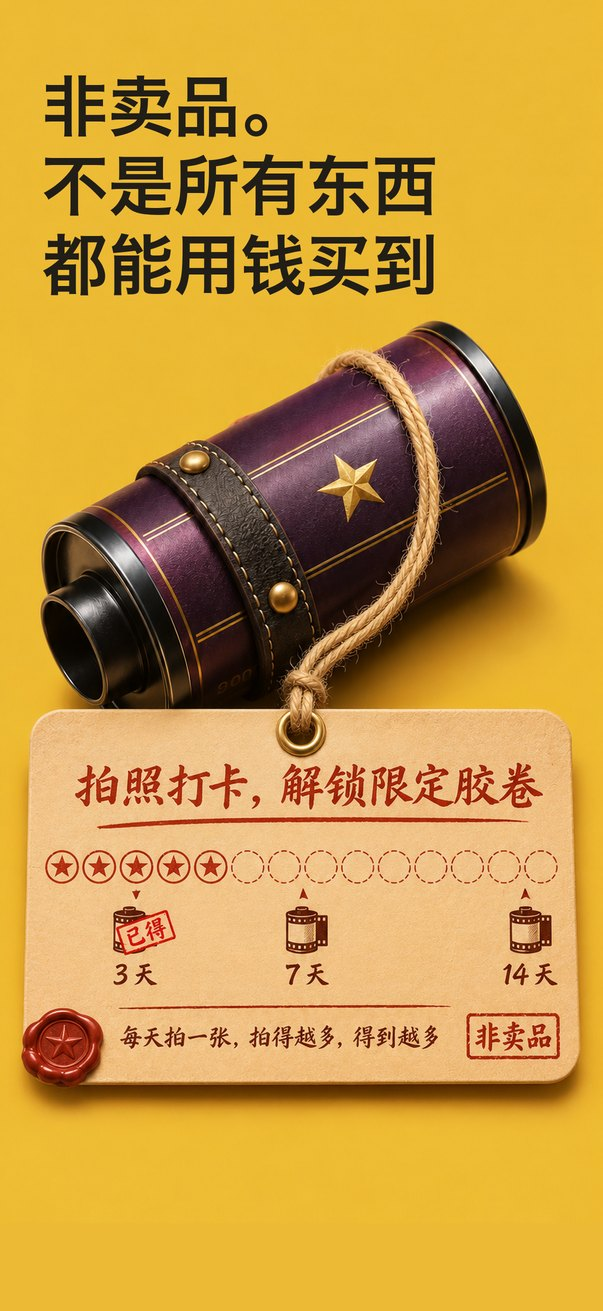
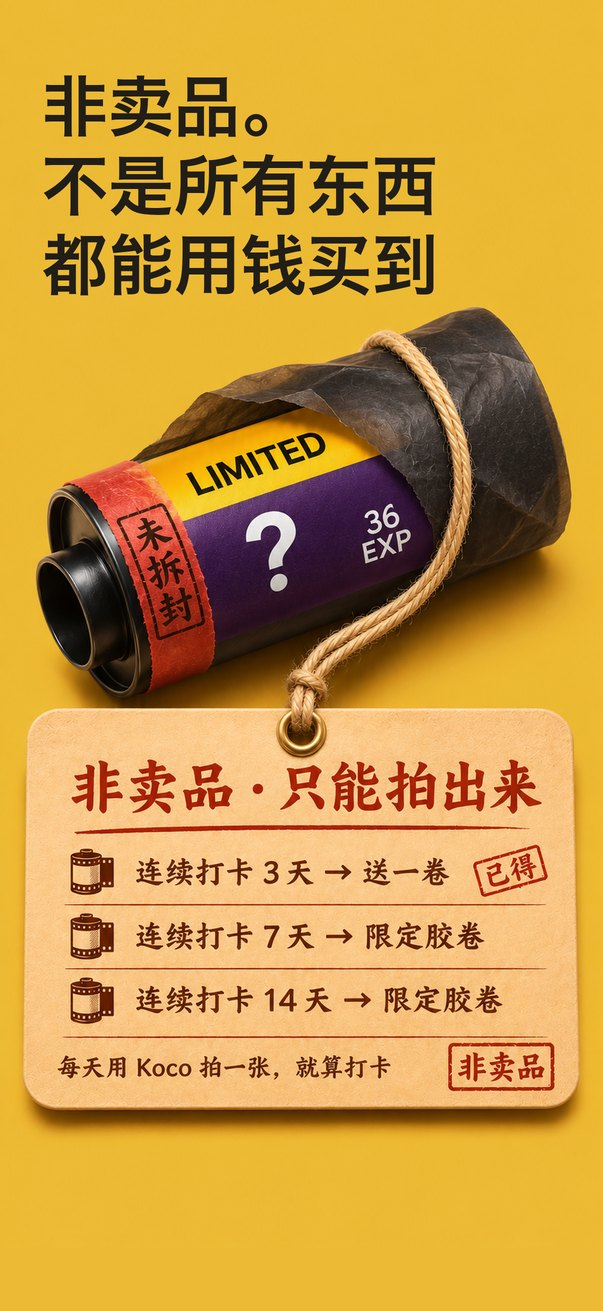
Community concept v3 (photos only on the album, sleeve on binder rings, lean left side), navigation styles board, not-for-sale page redrawn in the app's two-tone roll style with the earn rules on the tag

Changed region(s): [[0.0299, 0.2136, 0.9851, 0.8848]]

diff --git a/design/appstore/duo/index.html b/design/appstore/duo/index.html
@@ -24,13 +24,19 @@ body.en .zh,body:not(.en) .en{display:none}
 .tbl{overflow-x:auto}table{border-collapse:collapse;min-width:520px;font-size:14px}td,th{border-bottom:1px solid var(--line);padding:8px;text-align:left;vertical-align:top}
 </style>
 <main>
-<h1>社区页 · 第二版</h1>
+<h1>社区页 · 第三版</h1>
+<p class="sub">右边只放照片，横幅去掉了；插页左边那列孔穿在一组钉在左页绒布上的黄铜活页环上（像活页相册），两个夹子去掉了。左边去掉“Koco 社区”纸片，从上到下：推荐 / 关注 / 最新、搜索条、今日题目（小题签当推荐位）、按胶卷看、我的（头像、数字、打卡章）、最下面导航。</p>
+<img src="community_v3.jpg" alt="社区页第三版" style="width:100%;border-radius:8px">
+<h2>左下角导航 · 几种做法</h2>
+<p class="sub">1 琴键：老录音机那种一排四个金属按键，选中的按下去、红键帽，横向最省地方。2 拨盘：黄铜模式拨盘，红指针指着选中项，最像相机，但占一块方形地方。3 皮带铆钉：竖排四个铜孔，选中的扣红按扣，竖着占高度。4 胶卷盒盖：四个透明小盒盖，选中的亮红。左下那条是原来的黄铜拨档。</p>
+<img src="nav_board.jpg" alt="导航做法对比" style="width:100%;border-radius:8px">
+<h2>社区页 · 第二版</h2>
 <p class="sub">照片改成三列：一张比单页更宽的透明插页摊开在包上，从右页铺过书脊、压住左页右边三分之一，左边缘用两个黄铜夹子夹在绒布上——这样“对半开的皮夹”里出现三列就说得通。今日题目不再是导航，改成插页最上面横跨三列的推荐位。左边导航按照片社区的习惯做轻：推荐 / 关注 / 最新、搜索条、按胶卷看、我的（头像、作品 / 关注 / 获赞、打卡章），最下面是黄铜拨档。</p>
 <img src="community_v2.jpg" alt="社区页第二版" style="width:100%;border-radius:8px">
 <h2>整套 8 页 · 按你的意见改</h2>
 <p class="sub">4 非卖品：换成神秘盒子——黑盒子带相机同款黄红条，盒盖掀开，绒布里躺着一卷紫金色的胶卷，火漆封条撕开一半（GPT 画）。6 所见即所得：相机和成片同一个角度，成片压在相机下面像刚吐出来，不再一正一歪，也不是死板地上下摆。7 先试试：回到 App 里真正的滑动对比界面，截成一个满页的竖窗，白线和拖动圆钮在中间；换了一张前后差别大的照片（原图是手机那种平平的发青，Natura 1600 后浓郁暖调）。8 一键直达：去掉桌面图标，只留 Dock（相册、设置、信息、音乐，没有相机）。点按钮切中文 / English。</p>
 <div class="seg" role="group" aria-label="语言"><button id="bz" aria-pressed="true">中文</button><button id="be" aria-pressed="false">English</button></div>
-<div class="row" style="grid-template-columns:repeat(auto-fill,minmax(130px,1fr))"><figure><img class="zh" src="s9_1_zh.jpg" alt="不是 iPhone，是胶片相机"><img class="en" src="s9_1_en.jpg" alt="不是 iPhone，是胶片相机"><figcaption>1 · 不是 iPhone，是胶片相机</figcaption></figure><figure><img class="zh" src="s9_2_zh.jpg" alt="换一卷，换一种生活"><img class="en" src="s9_2_en.jpg" alt="换一卷，换一种生活"><figcaption>2 · 换一卷，换一种生活</figcaption></figure><figure><div style="aspect-ratio:603/1311;border:2px dashed #b9a;border-radius:6px;display:grid;place-items:center;text-align:center;padding:8px;font-size:13px">社区页<br>等你选定导航后做</div><figcaption>3 · 社区</figcaption></figure><figure><img class="zh" src="s9_4_zh.jpg" alt="非卖品（神秘盒子）"><img class="en" src="s9_4_en.jpg" alt="非卖品（神秘盒子）"><figcaption>4 · 非卖品（加打卡卡片）</figcaption></figure><figure><img class="zh" src="s9_5_zh.jpg" alt="军火库"><img class="en" src="s9_5_en.jpg" alt="军火库"><figcaption>5 · 军火库</figcaption></figure><figure><img class="zh" src="s9_6_zh.jpg" alt="所见即所得（新）"><img class="en" src="s9_6_en.jpg" alt="所见即所得（新）"><figcaption>6 · 所见即所得（新）</figcaption></figure><figure><img class="zh" src="s9_7_zh.jpg" alt="买之前，先试试（新）"><img class="en" src="s9_7_en.jpg" alt="买之前，先试试（新）"><figcaption>7 · 买之前，先试试（红车被白线切开）</figcaption></figure><figure><img class="zh" src="s9_8_zh.jpg" alt="两种方式，一键直达（新）"><img class="en" src="s9_8_en.jpg" alt="两种方式，一键直达（新）"><figcaption>8 · 两种方式，一键直达（去掉红箭头）</figcaption></figure></div>
+<div class="row" style="grid-template-columns:repeat(auto-fill,minmax(130px,1fr))"><figure><img class="zh" src="s9_1_zh.jpg" alt="不是 iPhone，是胶片相机"><img class="en" src="s9_1_en.jpg" alt="不是 iPhone，是胶片相机"><figcaption>1 · 不是 iPhone，是胶片相机</figcaption></figure><figure><img class="zh" src="s9_2_zh.jpg" alt="换一卷，换一种生活"><img class="en" src="s9_2_en.jpg" alt="换一卷，换一种生活"><figcaption>2 · 换一卷，换一种生活</figcaption></figure><figure><div style="aspect-ratio:603/1311;border:2px dashed #b9a;border-radius:6px;display:grid;place-items:center;text-align:center;padding:8px;font-size:13px">社区页<br>等你选定导航后做</div><figcaption>3 · 社区</figcaption></figure><figure><img class="zh" src="s9_4_zh.jpg" alt="非卖品（神秘盒子）"><img class="en" src="s9_4_en.jpg" alt="非卖品（神秘盒子）"><figcaption>4 · 非卖品（同款拼色卷，未拆封）</figcaption></figure><figure><img class="zh" src="s9_5_zh.jpg" alt="军火库"><img class="en" src="s9_5_en.jpg" alt="军火库"><figcaption>5 · 军火库</figcaption></figure><figure><img class="zh" src="s9_6_zh.jpg" alt="所见即所得（新）"><img class="en" src="s9_6_en.jpg" alt="所见即所得（新）"><figcaption>6 · 所见即所得（新）</figcaption></figure><figure><img class="zh" src="s9_7_zh.jpg" alt="买之前，先试试（新）"><img class="en" src="s9_7_en.jpg" alt="买之前，先试试（新）"><figcaption>7 · 买之前，先试试（红车被白线切开）</figcaption></figure><figure><img class="zh" src="s9_8_zh.jpg" alt="两种方式，一键直达（新）"><img class="en" src="s9_8_en.jpg" alt="两种方式，一键直达（新）"><figcaption>8 · 两种方式，一键直达（去掉红箭头）</figcaption></figure></div>
 <h2>内屏导航 · 实际用起来的样子</h2>
 <p class="sub">每个方案两张：左边停在“胶卷”页，右边切到“社区”页。导航固定在左页最下面不动，切页时只有上面的内容换：胶卷页左边是胶卷，社区页左边是题目、分类和打卡；右页都是内容。右边的“小皮子”书签已经去掉。都是 GPT 画的。</p>
 <h2>A · 黄铜拨档铭牌：拨杆从“胶卷”拨到了最右边“社区”，选中的字变红</h2>

diff --git a/tools/appstore_v6.py b/tools/appstore_v6.py
@@ -675,7 +675,7 @@ def z4_locked():
     its kraft tag stamped three days running and sealed (GPT art)."""
     # The card on it says how (user: the headline alone is too vague): a zh
     # and an en drawing of the same picture.
-    im = gpt_on_yellow(f"design/appstore/v6/locked_roll_{'zh' if zh else 'en'}.png", y=-170)
+    im = gpt_on_yellow(f"design/appstore/v6/locked_roll_{'zh' if zh else 'en'}.png", y=-120)
     headline(im, 43)
     return im
 
